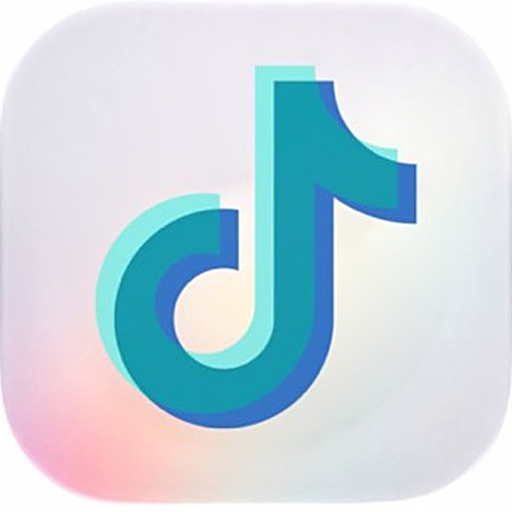
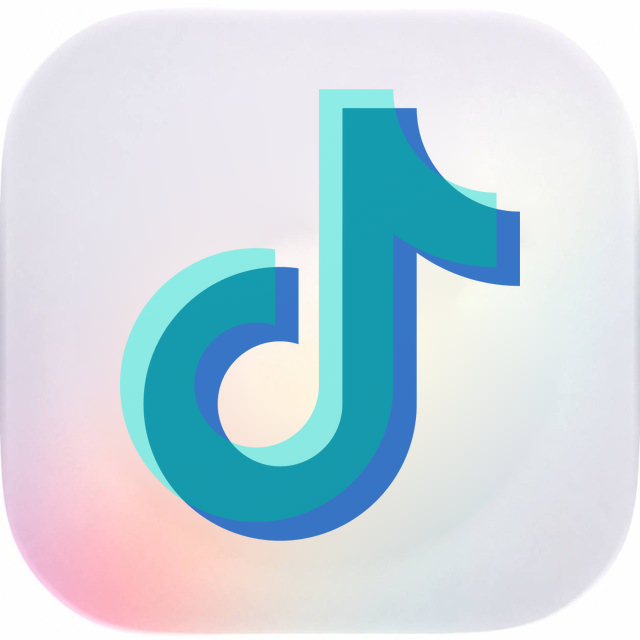
平台18个换作者原图(640原文件)+新增儿童原创6个，共44个

diff --git a/README.md b/README.md
@@ -1,6 +1,6 @@
 # Rex图标合集（夏恩图标库）
 
-Rex / Forward 图标库，共 38 个图标：多色标志 20 色 + 方形平台 18 个（QQ音乐 / 虎牙 / B站 / 抖音 / 红果短剧 / 网易云，各 3 色）。
+Rex / Forward 图标库，共 44 个图标：多色标志 20 色 + 方形平台 18 个（QQ音乐 / 虎牙 / B站 / 抖音 / 红果短剧 / 网易云，各 3 色）。
 
 ## 使用
 
